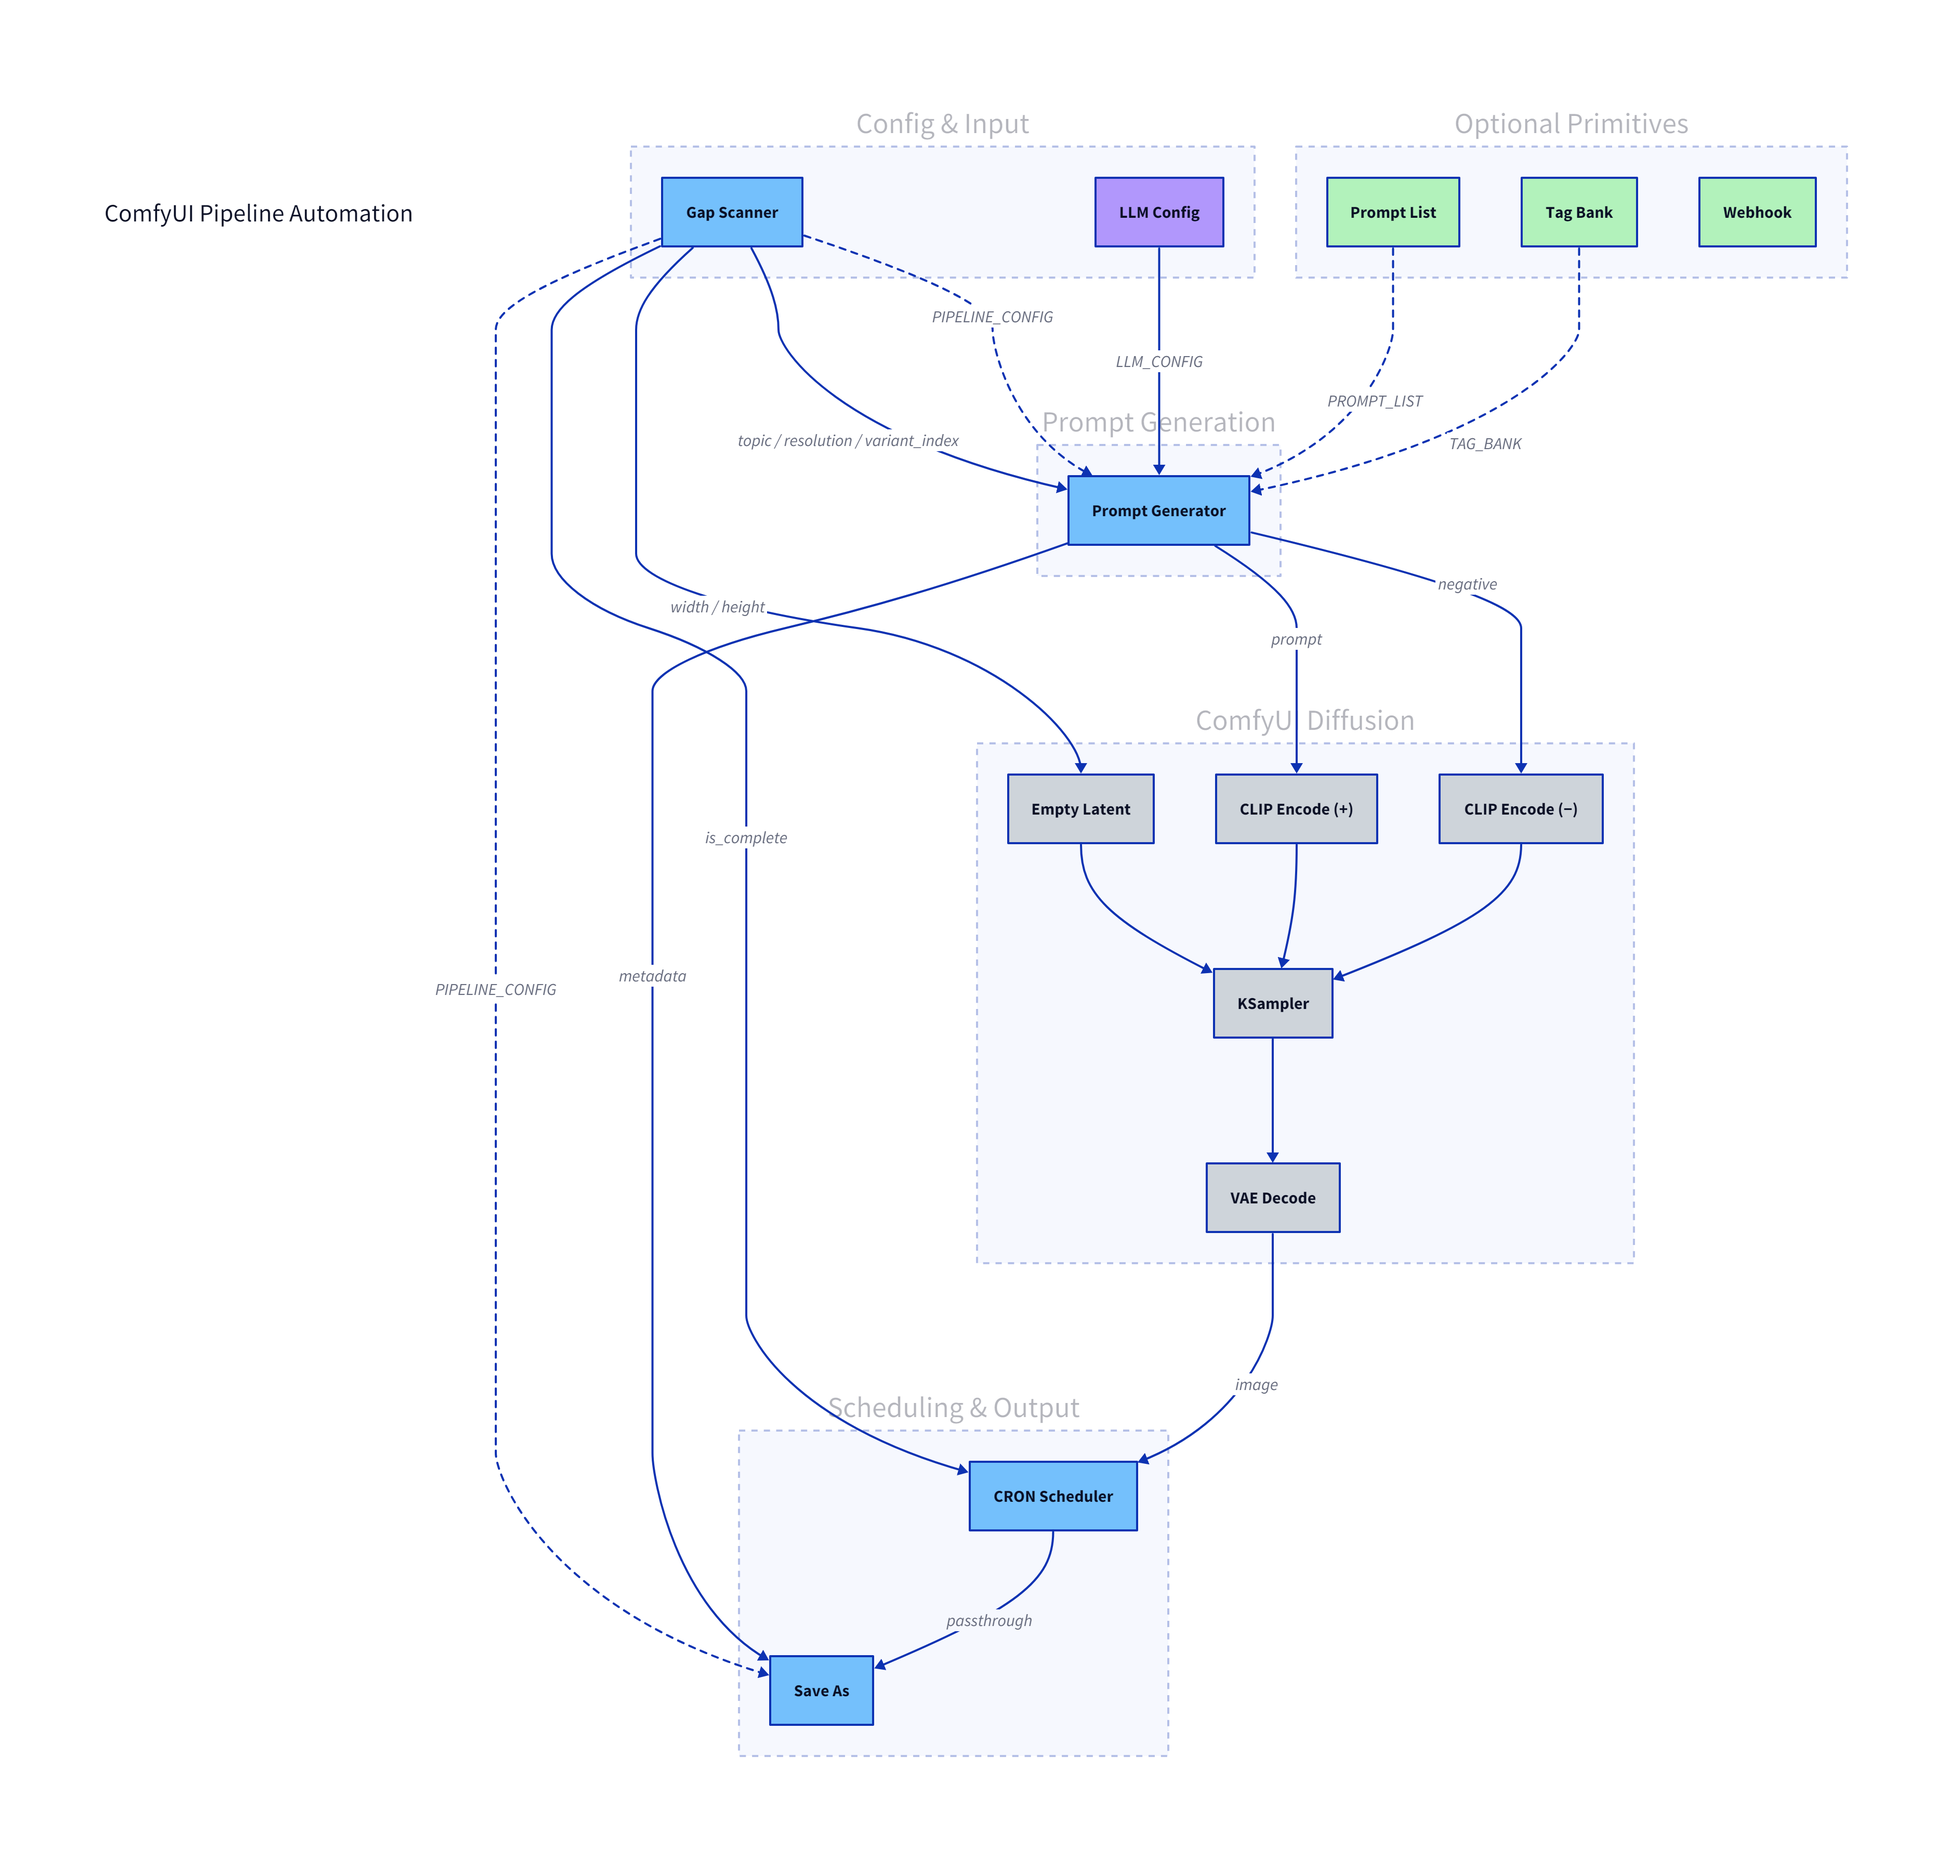
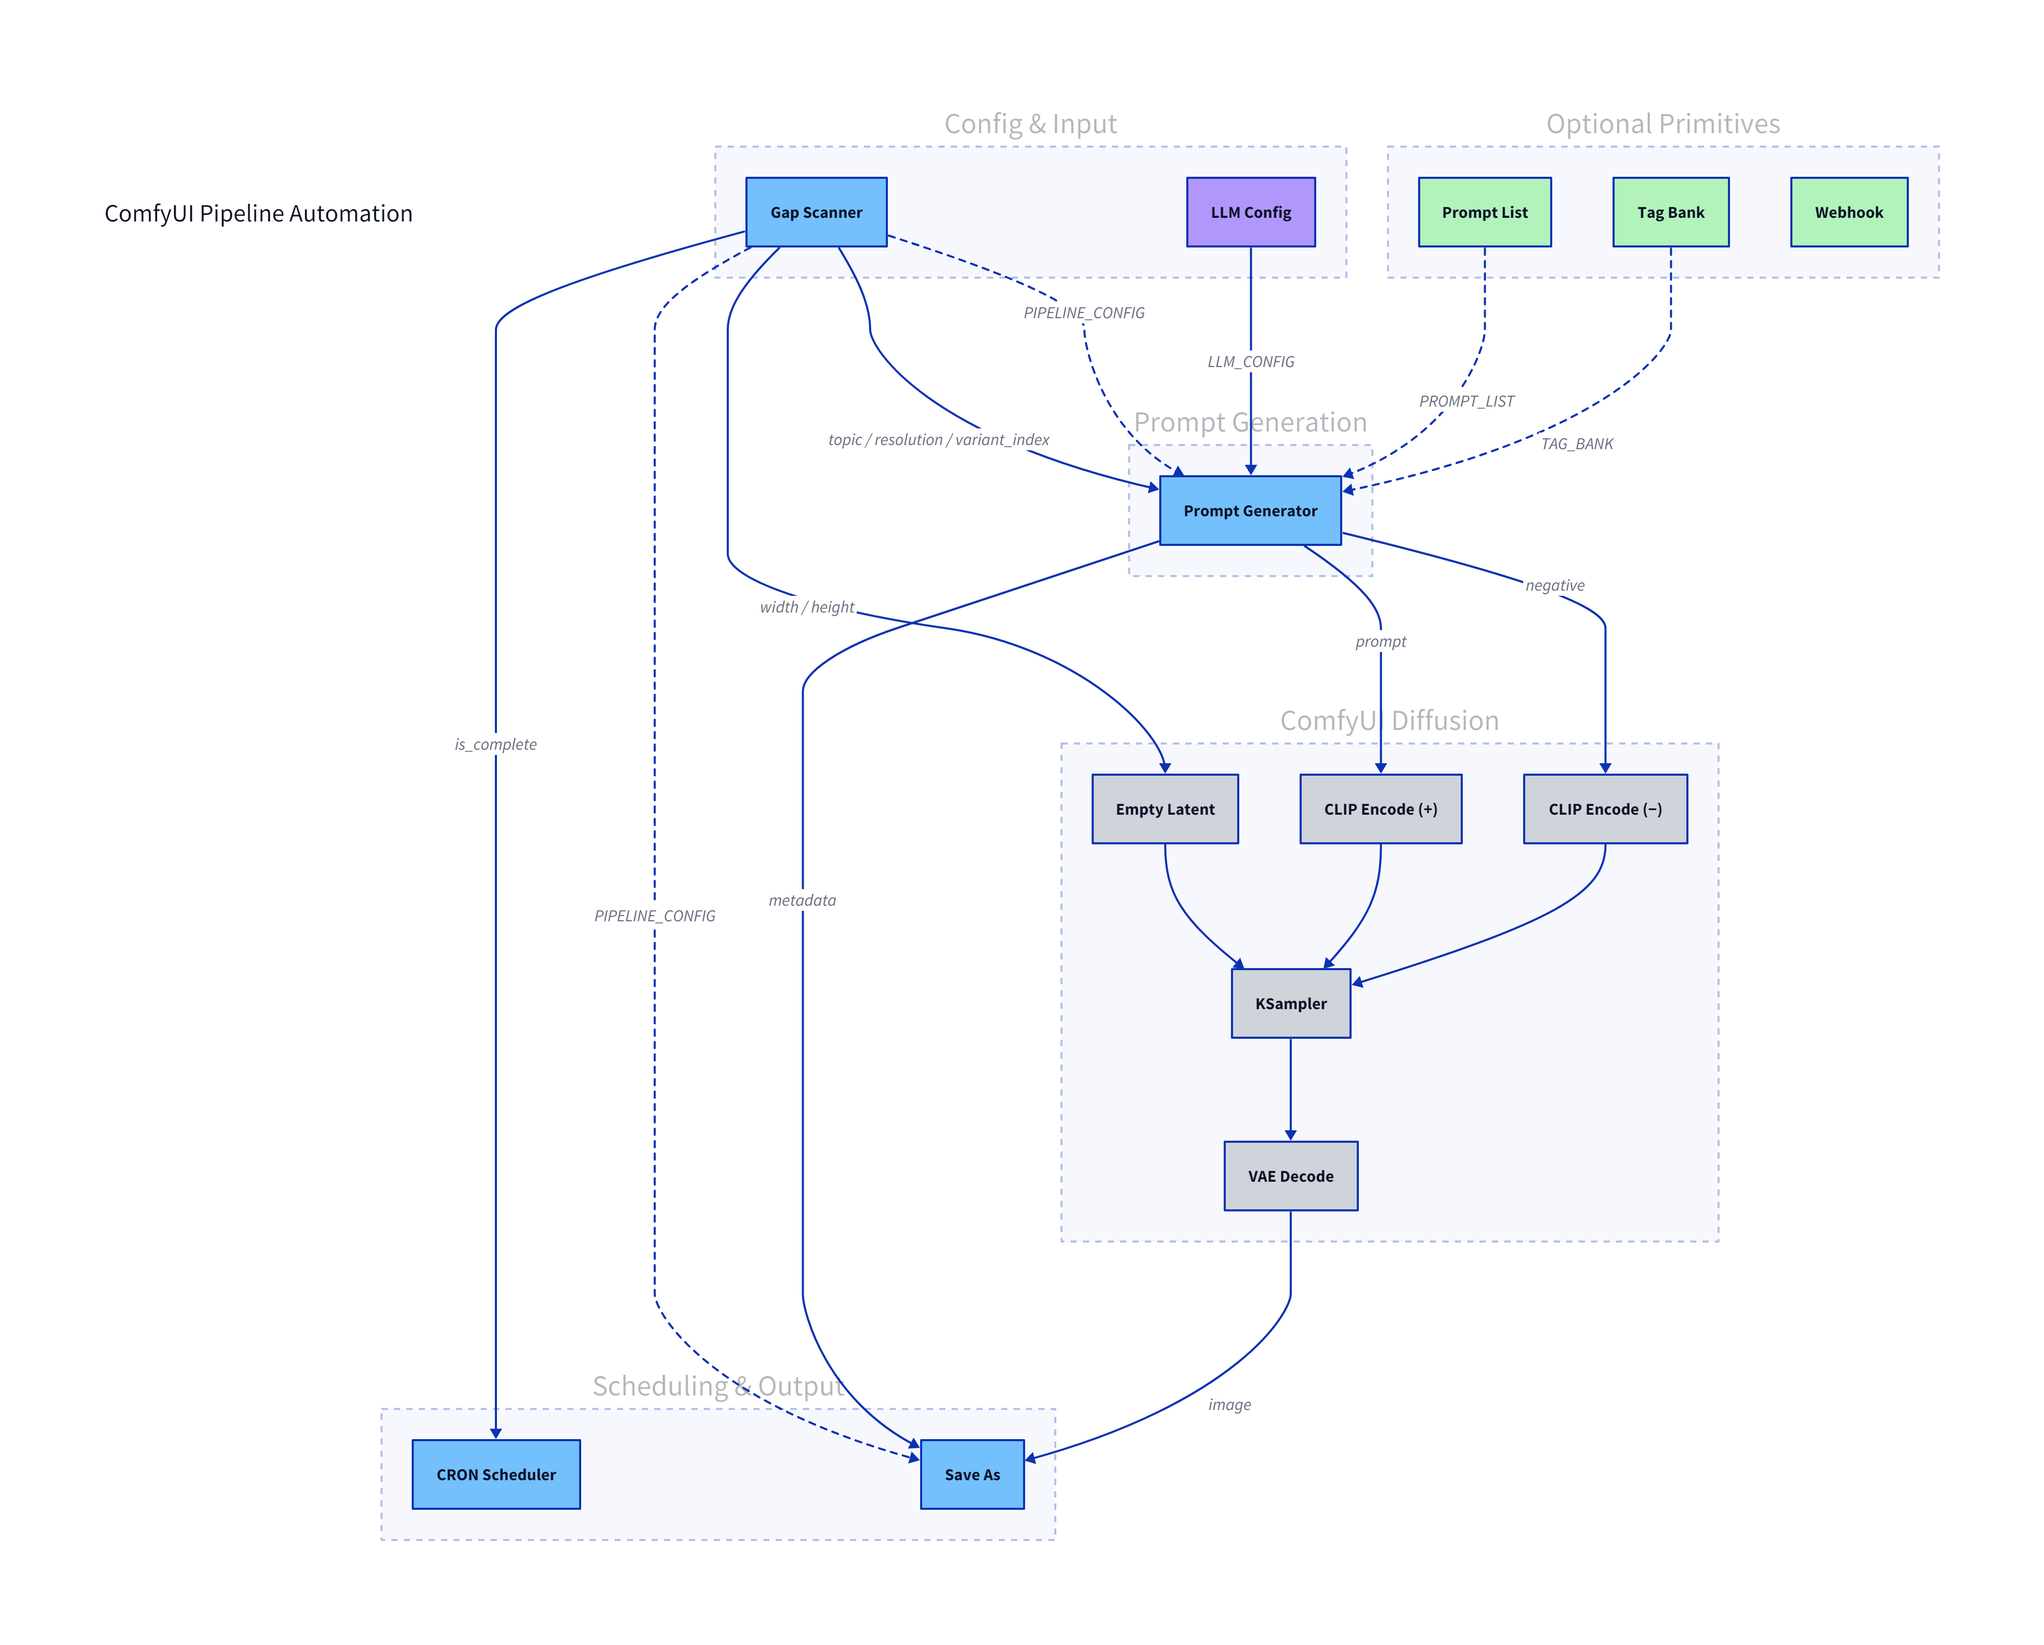
refactor: make CRON Scheduler an OUTPUT_NODE, remove passthrough
CRON Scheduler had no reason to sit in the image path. The passthrough
was a hack to force execution. With OUTPUT_NODE = True, ComfyUI always
executes it — image flows directly from VAE Decode to Save As.

Removed: passthrough input/output, * type dependency.
Kept: is_complete from GapScanner, all scheduling logic unchanged.

diff --git a/nodes/cron_scheduler.py b/nodes/cron_scheduler.py
@@ -115,12 +115,14 @@ def _scheduler_loop(cron_expr: str, api_url: str, mode: str,
 
 
 class CRONScheduler:
-    """Re-queues workflow on cron schedule via background thread."""
+    """Re-queues workflow on cron schedule via background thread.
+    Marked as OUTPUT_NODE so it always executes without needing a passthrough."""
 
     CATEGORY = "Pipeline Automation"
-    RETURN_TYPES = ("STRING", "*")
-    RETURN_NAMES = ("status", "passthrough")
+    RETURN_TYPES = ("STRING",)
+    RETURN_NAMES = ("status",)
     FUNCTION = "schedule"
+    OUTPUT_NODE = True
 
     @classmethod
     def INPUT_TYPES(cls):
@@ -135,14 +137,13 @@ class CRONScheduler:
             },
             "optional": {
                 "external_command": ("STRING", {"default": ""}),
-                "passthrough": ("*",),
                 "is_complete": ("BOOLEAN", {"default": False}),
             },
         }
 
     def schedule(self, schedule_preset, cron_expression, enabled, mode,
                  comfyui_api_url, max_iterations,
-                 external_command="", passthrough=None, is_complete=False):
+                 external_command="", is_complete=False):
         global _scheduler_thread, _run_count
 
         # Determine actual cron expression
@@ -155,13 +156,13 @@ class CRONScheduler:
         if is_complete:
             _stop_existing()
             status = f"DONE | runs: {_run_count} | pipeline complete"
-            return (status, passthrough)
+            return (status,)
 
         # Handle disabled
         if not enabled:
             _stop_existing()
             status = "OFF"
-            return (status, passthrough)
+            return (status,)
 
         # Start or restart scheduler
         _stop_existing()
@@ -183,7 +184,7 @@ class CRONScheduler:
         preset_label = schedule_preset if schedule_preset != "Custom" else actual_cron
         status = f"ON | {preset_label} | next: {next_run.isoformat()} | runs: {_run_count}"
 
-        return (status, passthrough)
+        return (status,)
 
     @classmethod
     def IS_CHANGED(cls, **kwargs):

diff --git a/README.md b/README.md
@@ -154,7 +154,7 @@ Structured LLM connection settings with provider presets. Outputs a typed `LLM_C
 
 ### CRON Scheduler
 
-Re-queues the current workflow on a schedule via a background thread. Skips ticks when ComfyUI's queue is busy. Stops automatically when `is_complete` is true. Passthrough accepts any type (IMAGE, LATENT, STRING, etc.) so it can sit anywhere in the graph.
+Re-queues the current workflow on a schedule via a background thread. Skips ticks when ComfyUI's queue is busy. Stops automatically when `is_complete` is true. Marked as `OUTPUT_NODE` so it always executes — no passthrough wiring needed.
 
 **Inputs:**
 
@@ -167,7 +167,6 @@ Re-queues the current workflow on a schedule via a background thread. Skips tick
 | `comfyui_api_url` | STRING | `http://127.0.0.1:8188` | ComfyUI API endpoint |
 | `max_iterations` | INT | `0` | Max iterations (0 = unlimited) |
 | `external_command` | STRING | — | Shell command for run_command mode |
-| `passthrough` | * | — | Any-type passthrough |
 | `is_complete` | BOOLEAN | `false` | Stops scheduler when true |
 
 **Outputs:**
@@ -175,7 +174,6 @@ Re-queues the current workflow on a schedule via a background thread. Skips tick
 | Output | Type | Description |
 |--------|------|-------------|
 | `status` | STRING | Scheduler state |
-| `passthrough` | * | Any-type passthrough |
 
 ---
 
@@ -296,7 +294,6 @@ Bundles custom word bank paths and per-topic curated tags into a typed `TAG_BANK
 | Prompt Generator | `prompt` | STRING | CLIP Text Encode | `text` |
 | Prompt Generator | `negative_prompt` | STRING | CLIP Text Encode (neg) | `text` |
 | Prompt Generator | `metadata` | STRING | Save As | `metadata` |
-| CRON Scheduler | `passthrough` | * | Save As | `image` |
 
 ## Custom Types
 
